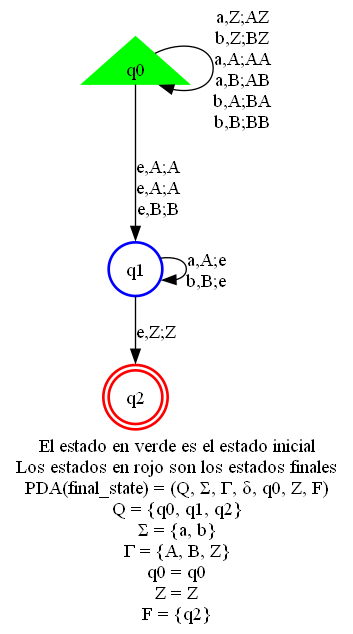
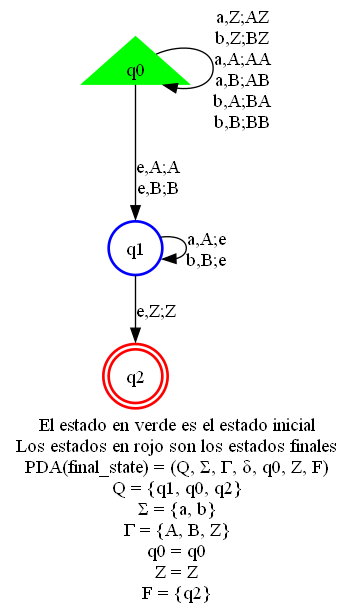
fix graph

Changed region(s): [[0.0312, 0.248, 0.966, 0.9918], [0.2181, 0.0, 0.779, 0.217]]

diff --git a/main.py b/main.py
@@ -121,18 +121,21 @@ def generar_empty_stack(pda_file_name, estado_inicial, estados_finales,nombres_n
 
     # Crear el objeto de diccionario para las propiedades de la transición
     propiedades_transicion_p0 = {
-        'label': 'e,X;XZ'
+        'label': 'e,X;ZX'
     }
     
     propiedades_transicion_p = {
         'label': 'e,Z;e'
+    }
+    propiedades_transicion_pf = {
+        'label': 'e,X;e'
     }
 
     # Agregar el nuevo nodo y la transición al grafo
     pda_graph.add_node(nuevo_nodo_p0, color='green', style='filled', shape='triangle', label=nuevo_nodo_p0)
     pda_graph.add_edge('p0', nuevo_estado_destino, **propiedades_transicion_p0)
     pda_graph.add_node(nuevo_nodo_p, color='blue', style='bold', shape='circle', label=nuevo_nodo_p)
-    
+    pda_graph.add_edge(nuevo_nodo_p, nuevo_nodo_p, **propiedades_transicion_pf)
     for estado_final in estados_finales:
         pda_graph.add_edge(estado_final, nuevo_nodo_p, **propiedades_transicion_p)
     # Cambiar el estilo del nodo con el nombre del estado inicial a un círculo azul
